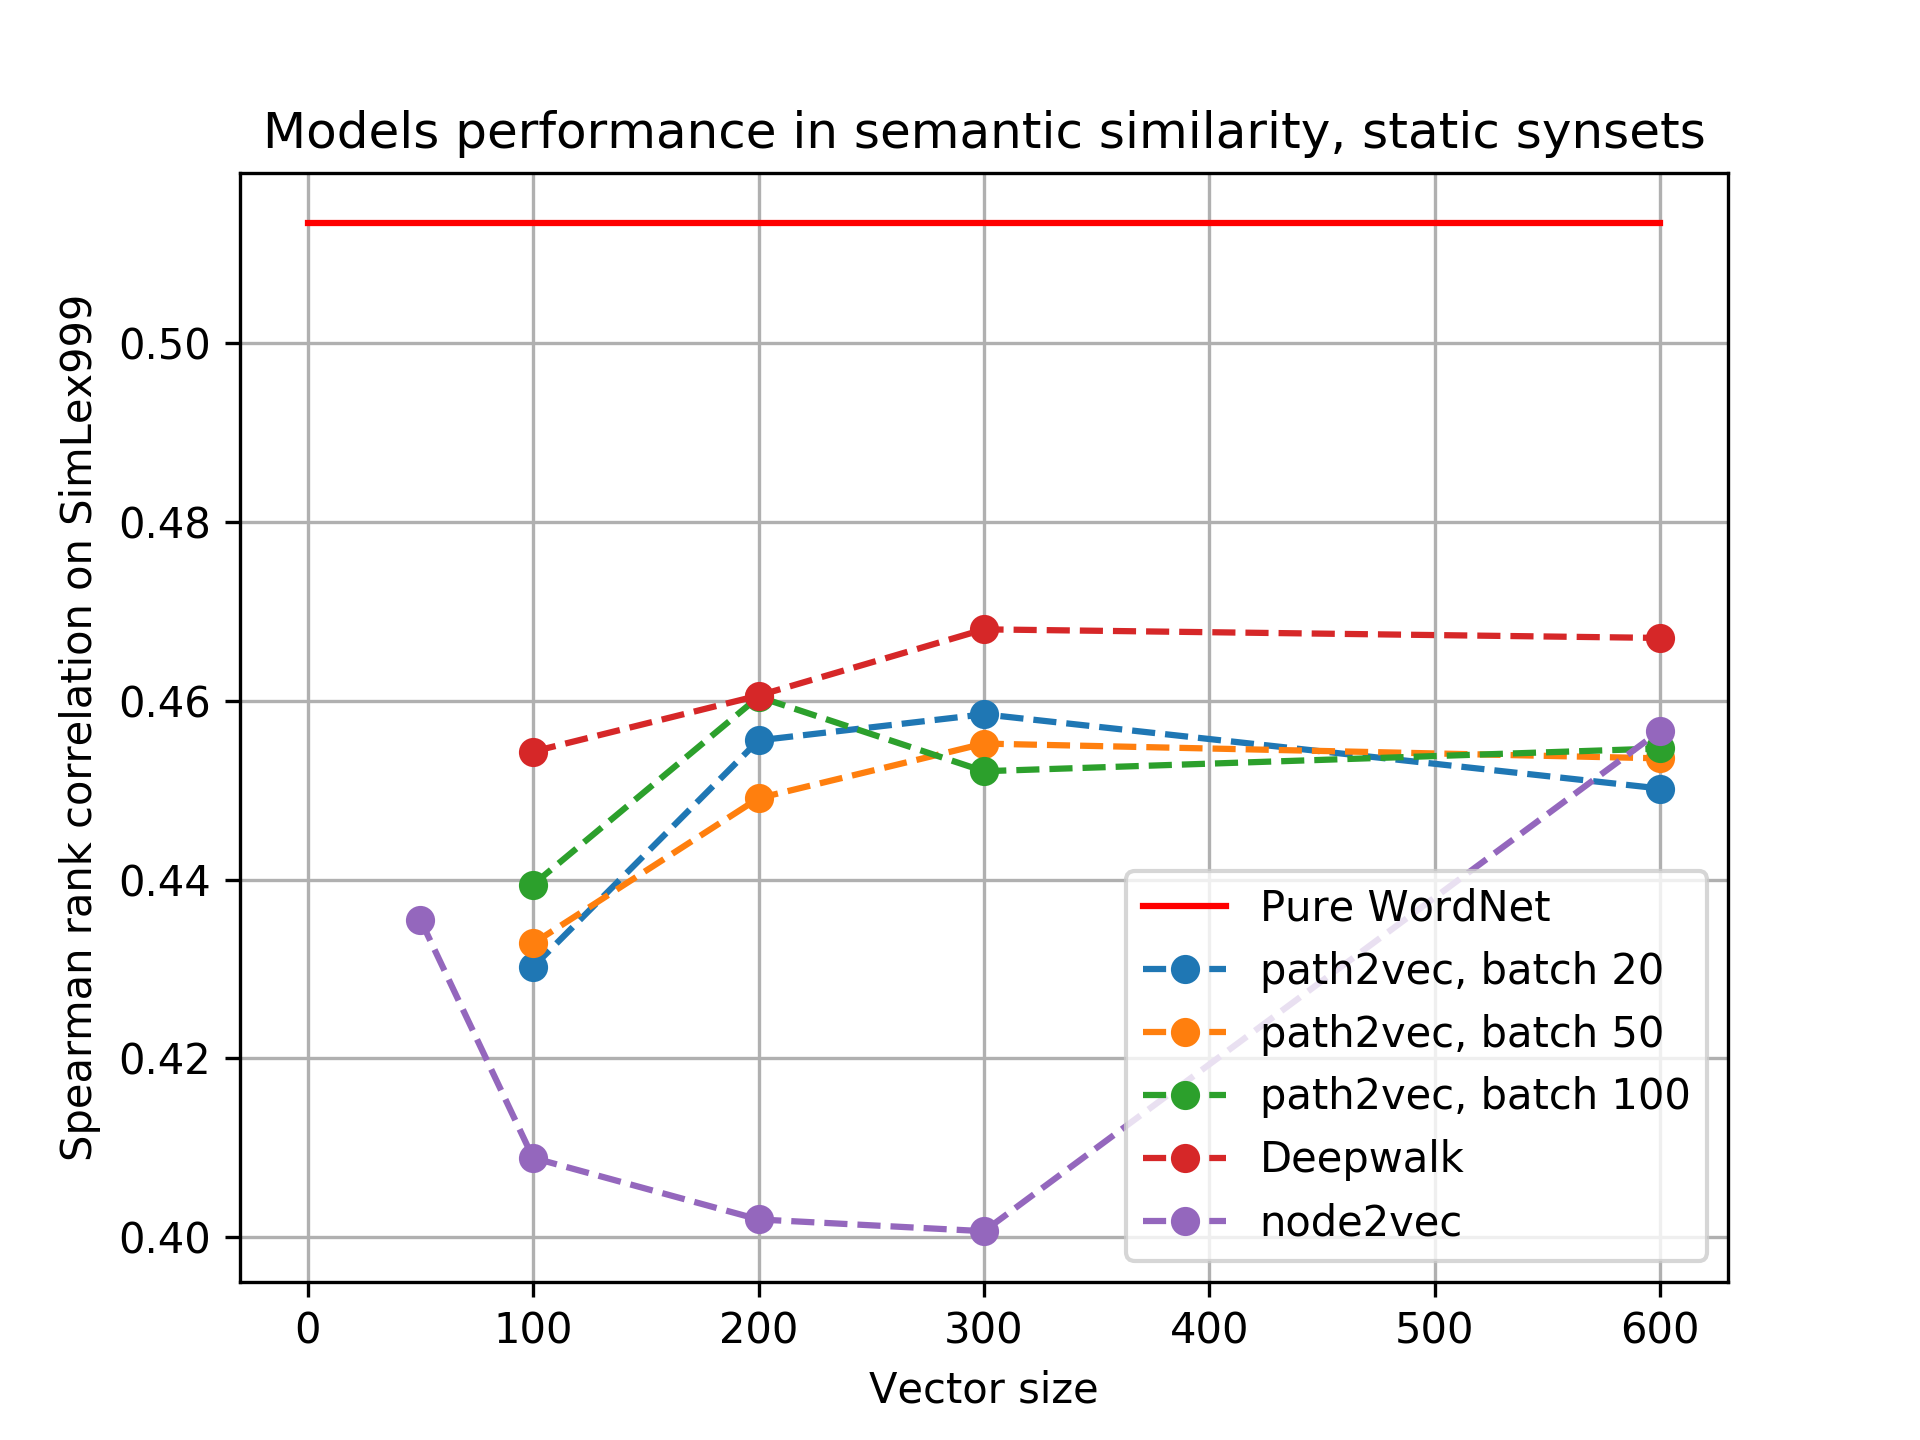
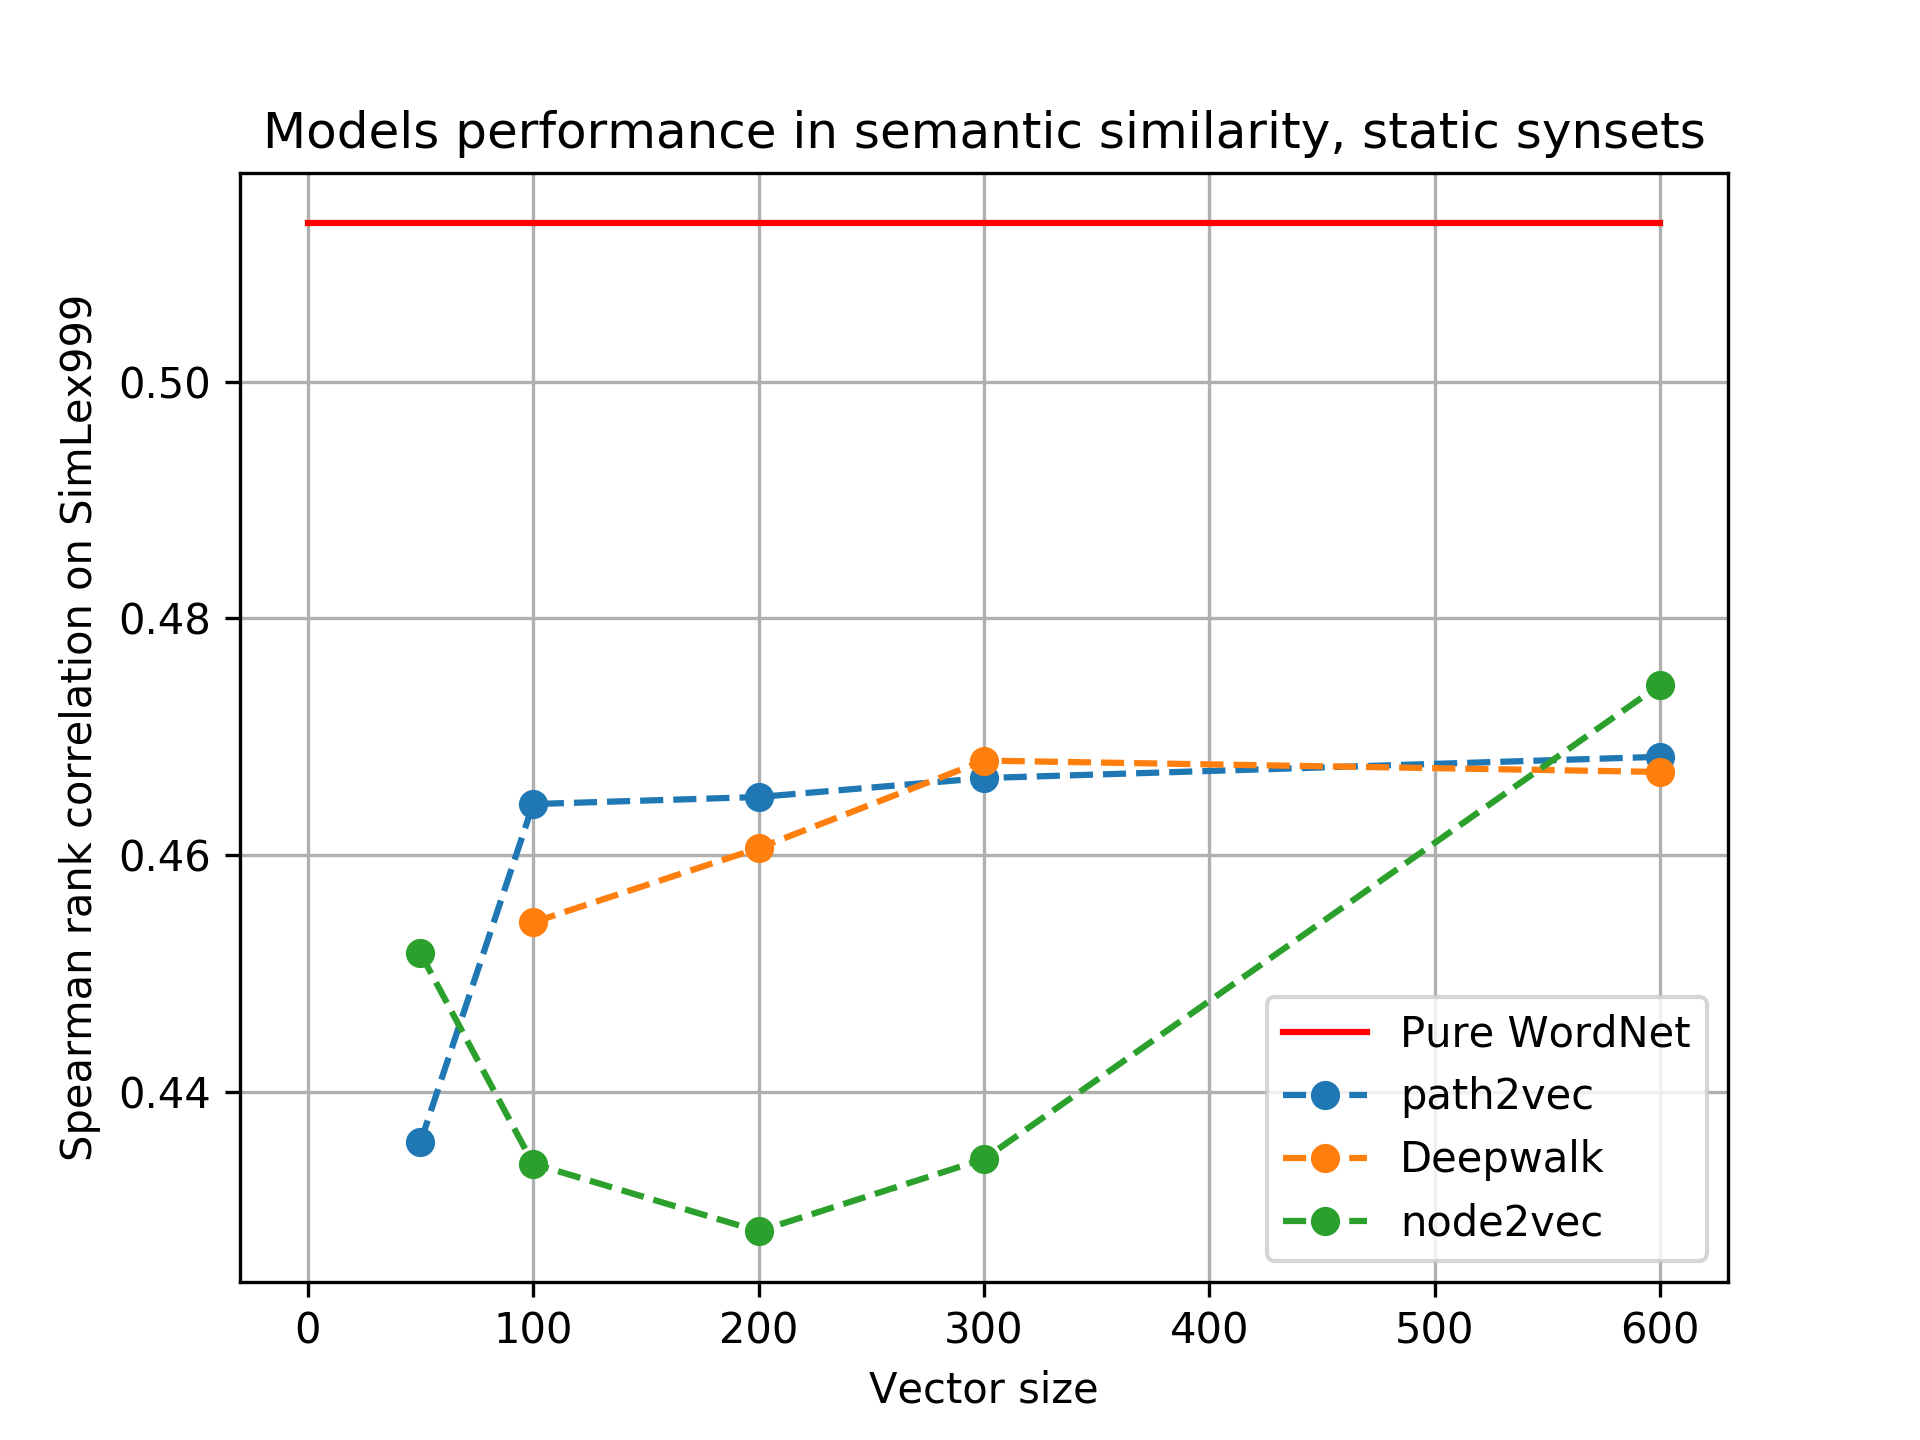
New results for plots

diff --git a/results/draw.py b/results/draw.py
@@ -21,7 +21,7 @@ for line in sys.stdin:
     (corpus, vsize, bsize, lrate, wordnet, human, dynamic_human) = res
     if lrate != '0.005':
         continue
-    if float(bsize) < 20 or float(bsize) > 400 or float(bsize) == 25:
+    if float(bsize) < 100 or float(bsize) > 366:
         continue
     lrates.append(lrate)
     vsize = float(vsize)
@@ -59,7 +59,8 @@ for batch in sorted(diff_bsizes):
     elif int(batch) == 366:
         label = 'node2vec'
     else:
-        label = 'path2vec, batch ' + str(int(batch))
+        #label = 'path2vec, batch ' + str(int(batch))
+        label = 'path2vec'
     plt.plot(x, y, linestyle='dashed', marker='o', label=label)
 plt.xlabel('Vector size')
 plt.ylabel('Spearman rank correlation on SimLex999')
@@ -80,7 +81,8 @@ for batch in sorted(diff_bsizes):
     elif int(batch) == 366:
         label = 'node2vec'
     else:
-        label = 'path2vec, batch ' + str(int(batch))
+        #label = 'path2vec, batch ' + str(int(batch))
+        label = 'path2vec'
     plt.plot(x, y, linestyle='dashed', marker='o', label=label)
 plt.xlabel('Vector size')
 plt.ylabel('Spearman rank correlation on SimLex999')
